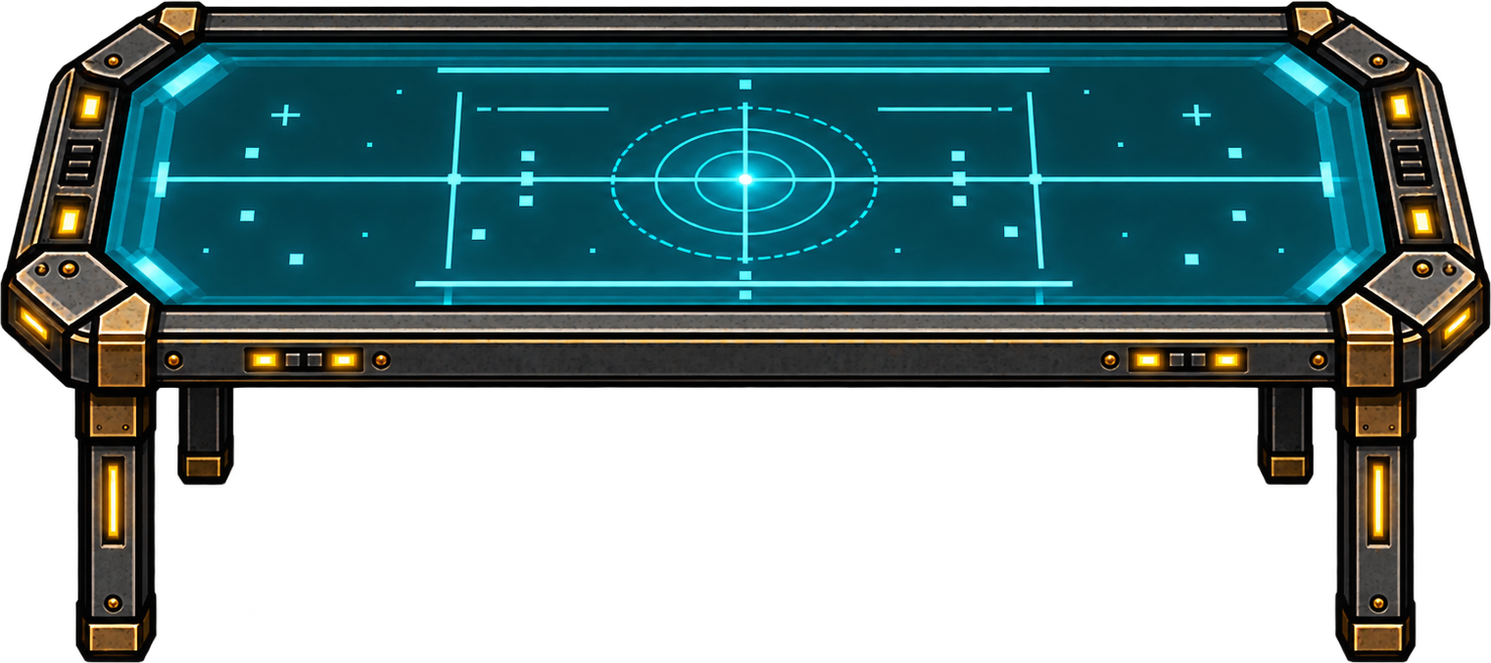
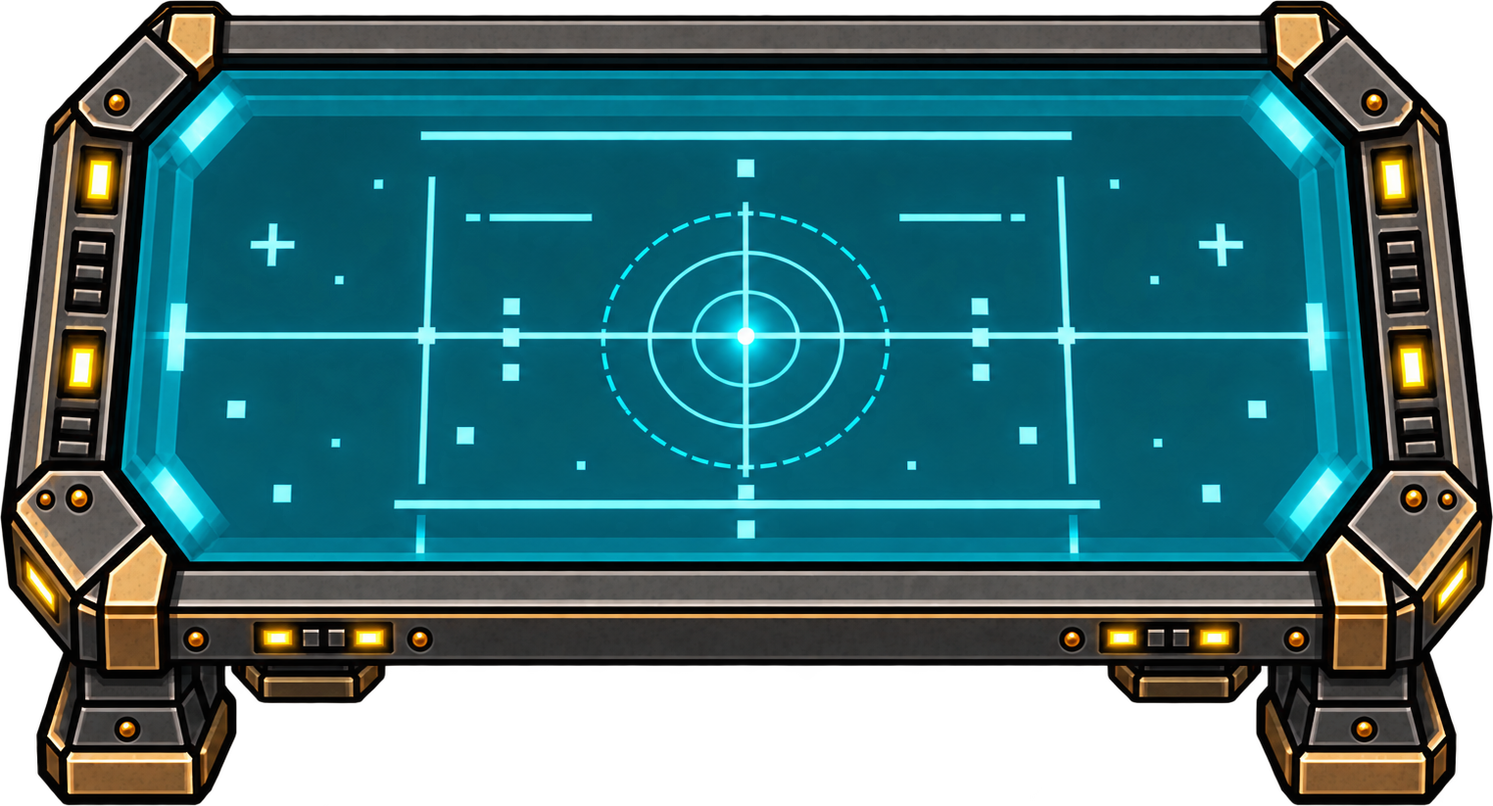
Lower tactical table on broad feet and correct its top-plane projection

diff --git a/frontend/app/projection-prop-effects.js b/frontend/app/projection-prop-effects.js
@@ -20,7 +20,7 @@ const ProjectionPropEffects = (() => {
     // Their painted graticules are static glass artwork. Do not cover them with
     // opaque rectangles when idle; animated sweeps still require occupancy.
     bridge_consolebank:[screen(rect(.045,.16,.22,.37),'occupied',C.cyan,0),screen(rect(.365,.16,.255,.37),'occupied',C.cyan,0),screen(rect(.725,.16,.20,.37),'occupied',C.cyan,0)],
-    bridge_tacticaltable:[screen([[.155,.09],[.84,.09],[.91,.17],[.93,.36],[.865,.45],[.13,.45],[.075,.37],[.09,.18]],'occupied',C.cyan,0)],
+    bridge_tacticaltable:[screen([[.158,.13],[.844,.13],[.896,.20],[.912,.565],[.863,.674],[.13,.674],[.092,.568],[.106,.218]],'occupied',C.cyan,0)],
     bigscreen:[screen(rect(.06,.20,.86,.32))],
     holotable:[screen([[.09,.20],[.89,.20],[.89,.61],[.09,.61]])],
     screens:[screen(rect(.29,.075,.42,.20)),screen(rect(.07,.49,.34,.19)),screen(rect(.60,.49,.33,.19))],
@@ -105,7 +105,7 @@ const ProjectionPropEffects = (() => {
     industrial_servicecab:[lamp(rect(.70,.483,.045,.027),'work',C.amber)]
   };
   // BINDINGS is generated from the reviewed manifest by the offline proof tool.
-  const BINDINGS = /* projection-bindings */ {"industrial_locker":{"s":{"image":"industrial_locker.png","width":292,"height":300}},"industrial_drawerbank":{"s":{"image":"industrial_drawerbank.png","width":521,"height":205}},"industrial_supplycart":{"s":{"image":"industrial_supplycart.png","width":319,"height":281}},"industrial_toolcaddy":{"s":{"image":"industrial_toolcaddy.png","width":248,"height":208}},"industrial_planter":{"s":{"image":"industrial_planter.png","width":401,"height":278}},"industrial_partition":{"s":{"image":"industrial_partition.png","width":529,"height":286},"w":{"image":"industrial_partition-w.png","width":177,"height":575},"e":{"image":"industrial_partition-e.png","width":135,"height":607}},"industrial_bench":{"s":{"image":"industrial_bench.png","width":1328,"height":441}},"industrial_roundtable":{"s":{"image":"industrial_roundtable.png","width":419,"height":295}},"industrial_servicecab":{"s":{"image":"industrial_servicecab.png","width":166,"height":444}},"industrial_wallpanel":{"s":{"image":"industrial_wallpanel.png","width":294,"height":252}},"industrial_floorvent":{"s":{"image":"industrial_floorvent.png","width":423,"height":173}},"industrial_cabletray":{"s":{"image":"industrial_cabletray.png","width":1133,"height":178}},"desk":{"s":{"image":"desk.png","width":1207,"height":804},"w":{"image":"desk-w.png","width":128,"height":190},"n":{"image":"desk-n.png","width":597,"height":469},"e":{"image":"desk-e.png","width":138,"height":190}},"desk2":{"s":{"image":"desk2.png","width":687,"height":423},"w":{"image":"desk2-w.png","width":146,"height":186},"n":{"image":"desk2-n.png","width":679,"height":411},"e":{"image":"desk2-e.png","width":218,"height":529}},"console":{"s":{"image":"console.png","width":1009,"height":833}},"consoleL":{"s":{"image":"consoleL.png","width":1308,"height":719}},"pixelrig":{"s":{"image":"pixelrig.png","width":403,"height":338}},"bench":{"s":{"image":"bench.png","width":1534,"height":673}},"workbench":{"s":{"image":"workbench.png","width":1202,"height":651}},"intake":{"s":{"image":"intake.png","width":1214,"height":976}},"bay":{"s":{"image":"bay.png","width":418,"height":396}},"filter":{"s":{"image":"filter.png","width":294,"height":331}},"merger":{"s":{"image":"merger.png","width":363,"height":213}},"splitter":{"s":{"image":"splitter.png","width":323,"height":212}},"joiner":{"s":{"image":"joiner.png","width":354,"height":225}},"loop":{"s":{"image":"loop.png","width":288,"height":345}},"outbox":{"s":{"image":"outbox.png","width":1206,"height":1014}},"connector_portal":{"s":{"image":"connector_portal.png","width":924,"height":1626}},"comms_dish":{"s":{"image":"comms_dish.png","width":661,"height":739}},"comms_uplink":{"s":{"image":"comms_uplink.png","width":244,"height":496}},"comms_beacon":{"s":{"image":"comms_beacon.png","width":272,"height":344}},"war_intelcab":{"s":{"image":"war_intelcab.png","width":825,"height":1491}},"safe":{"s":{"image":"safe.png","width":203,"height":361}},"vault":{"s":{"image":"vault.png","width":459,"height":259}},"rack":{"s":{"image":"rack.png","width":342,"height":306}},"shelf":{"s":{"image":"shelf.png","width":529,"height":252}},"core":{"s":{"image":"core.png","width":209,"height":448}},"gigs_servercart":{"s":{"image":"gigs_servercart.png","width":289,"height":320}},"bridge_relaystack":{"s":{"image":"bridge_relaystack.png","width":293,"height":599}},"studio":{"s":{"image":"studio.png","width":350,"height":374}},"airlock":{"s":{"image":"airlock.png","width":218,"height":215}},"missionboard":{"s":{"image":"missionboard.png","width":393,"height":229}},"trophycase":{"s":{"image":"trophycase.png","width":307,"height":345}},"bridge_consolebank":{"s":{"image":"bridge_consolebank.png","width":702,"height":218}},"bridge_tacticaltable":{"s":{"image":"bridge_tacticaltable.png","width":1522,"height":677}},"bridge_equipmentbay":{"s":{"image":"bridge_equipmentbay.png","width":1597,"height":559}},"bridge_deckperimeter":{"s":{"image":"bridge_deckperimeter.png","width":1558,"height":980}},"bigscreen":{"s":{"image":"bigscreen.png","width":638,"height":167}},"holotable":{"s":{"image":"holotable.png","width":1488,"height":810}},"screens":{"s":{"image":"screens.png","width":343,"height":306}},"tank":{"s":{"image":"tank.png","width":368,"height":326}},"whiteboard":{"s":{"image":"whiteboard.png","width":555,"height":247}},"ticker":{"s":{"image":"ticker.png","width":477,"height":214}},"chartwall":{"s":{"image":"chartwall.png","width":477,"height":232}},"wartable":{"s":{"image":"wartable.png","width":1981,"height":703}},"calwall":{"s":{"image":"calwall.png","width":737,"height":205}},"bridge_tacscreen":{"s":{"image":"bridge_tacscreen.png","width":340,"height":269}},"bridge_dispatch_pylon":{"s":{"image":"bridge_dispatch_pylon.png","width":302,"height":573}},"bridge_orderqueue":{"s":{"image":"bridge_orderqueue.png","width":405,"height":335}},"war_pivotpanel":{"s":{"image":"war_pivotpanel.png","width":509,"height":351}},"war_threatcore":{"s":{"image":"war_threatcore.png","width":200,"height":388}},"fabricator":{"s":{"image":"fabricator.png","width":420,"height":274}},"vat":{"s":{"image":"vat.png","width":382,"height":278}},"easel":{"s":{"image":"easel.png","width":649,"height":748}},"tube":{"s":{"image":"tube.png","width":340,"height":200}},"research_corelens":{"s":{"image":"research_corelens.png","width":272,"height":363}},"research_trendpillar":{"s":{"image":"research_trendpillar.png","width":272,"height":362}},"research_samplecart":{"s":{"image":"research_samplecart.png","width":650,"height":459}},"research_papers":{"s":{"image":"research_papers.png","width":433,"height":241}},"etsy_threadrack":{"s":{"image":"etsy_threadrack.png","width":406,"height":314}},"etsy_dyevat":{"s":{"image":"etsy_dyevat.png","width":368,"height":308}},"etsy_kiln":{"s":{"image":"etsy_kiln.png","width":324,"height":374}},"etsy_packbot":{"s":{"image":"etsy_packbot.png","width":270,"height":358}},"rackV":{"s":{"image":"rackV.png","width":182,"height":453}},"crate":{"s":{"image":"crate.png","width":631,"height":463}},"boxes":{"s":{"image":"boxes.png","width":314,"height":193}},"goldcrate":{"s":{"image":"goldcrate.png","width":312,"height":225}},"gigs_partsbin":{"s":{"image":"gigs_partsbin.png","width":312,"height":211}},"treasury_coinsorter":{"s":{"image":"treasury_coinsorter.png","width":578,"height":317}},"treasury_token_furnace":{"s":{"image":"treasury_token_furnace.png","width":197,"height":437}},"commswall":{"s":{"image":"commswall.png","width":646,"height":199}},"comms_inbox":{"s":{"image":"comms_inbox.png","width":457,"height":297}},"gigs_thumbwall":{"s":{"image":"gigs_thumbwall.png","width":372,"height":222}},"gigs_amp":{"s":{"image":"gigs_amp.png","width":225,"height":281}},"pub_publishpress":{"s":{"image":"pub_publishpress.png","width":435,"height":401}},"pub_outboundchute":{"s":{"image":"pub_outboundchute.png","width":428,"height":650}},"pub_mailpod":{"s":{"image":"pub_mailpod.png","width":727,"height":513}},"arc_indexwall":{"s":{"image":"arc_indexwall.png","width":532,"height":234}},"arc_microfiche":{"s":{"image":"arc_microfiche.png","width":338,"height":277}},"djbooth":{"s":{"image":"djbooth.png","width":849,"height":507}},"speaker":{"s":{"image":"speaker.png","width":231,"height":352}},"bar":{"s":{"image":"bar.png","width":974,"height":499}},"tv":{"s":{"image":"tv.png","width":287,"height":216}},"couch":{"s":{"image":"couch.png","width":1859,"height":682}},"arcade":{"s":{"image":"arcade.png","width":143,"height":326}},"arcade2":{"s":{"image":"arcade2.png","width":143,"height":326}},"jukebox":{"s":{"image":"jukebox.png","width":287,"height":383}},"bunk":{"s":{"image":"bunk.png","width":1139,"height":1188}},"quarters_pooltable":{"s":{"image":"quarters_pooltable.png","width":348,"height":239}},"quarters_vending":{"s":{"image":"quarters_vending.png","width":289,"height":465}},"quarters_lockerbank":{"s":{"image":"quarters_lockerbank.png","width":558,"height":495}},"quarters_minifridge":{"s":{"image":"quarters_minifridge.png","width":198,"height":328}},"coffee":{"s":{"image":"coffee.png","width":214,"height":313}},"plant":{"s":{"image":"plant.png","width":640,"height":1412}},"rug":{"s":{"image":"rug.png","width":350,"height":228}},"rug_small":{"s":{"image":"rug_small.png","width":248,"height":228}},"rug_large":{"s":{"image":"rug_large.png","width":556,"height":535}},"treasury_pnl_holo":{"s":{"image":"treasury_pnl_holo.png","width":322,"height":174}},"arc_floorlight":{"s":{"image":"arc_floorlight.png","width":175,"height":175}},"arc_ladder":{"s":{"image":"arc_ladder.png","width":331,"height":506}},"stool":{"s":{"image":"stool.png","width":400,"height":454}},"chair":{"s":{"image":"chair.png","width":457,"height":683},"w":{"image":"chair-w.png","width":107,"height":172},"n":{"image":"chair-n.png","width":111,"height":167},"e":{"image":"chair-e.png","width":108,"height":171}},"sidetable":{"s":{"image":"sidetable.png","width":236,"height":311}},"lowtable":{"s":{"image":"lowtable.png","width":521,"height":214},"e":{"image":"lowtable-e.png","width":163,"height":304}},"glasstable":{"s":{"image":"glasstable.png","width":548,"height":216},"e":{"image":"glasstable-e.png","width":449,"height":1325}},"dinertable":{"s":{"image":"dinertable.png","width":1237,"height":737},"e":{"image":"dinertable-e.png","width":447,"height":679}},"guitar":{"s":{"image":"guitar.png","width":218,"height":444}},"booth":{"s":{"image":"booth.png","width":333,"height":295},"w":{"image":"booth-w.png","width":289,"height":646},"e":{"image":"booth-e.png","width":696,"height":1789}},"dinerchair":{"s":{"image":"dinerchair.png","width":167,"height":311},"w":{"image":"dinerchair-w.png","width":226,"height":359},"n":{"image":"dinerchair-n.png","width":218,"height":300},"e":{"image":"dinerchair-e.png","width":227,"height":359}},"podchair":{"s":{"image":"podchair.png","width":237,"height":323},"w":{"image":"podchair-w.png","width":262,"height":384},"n":{"image":"podchair-n.png","width":356,"height":650},"e":{"image":"podchair-e.png","width":262,"height":386}},"loungetable":{"s":{"image":"loungetable.png","width":426,"height":212},"e":{"image":"loungetable-e.png","width":190,"height":264}},"longtable":{"s":{"image":"longtable.png","width":1738,"height":658},"e":{"image":"longtable-e.png","width":179,"height":380}},"lavalamp":{"s":{"image":"lavalamp.png","width":282,"height":658}},"crt_pile":{"s":{"image":"crt_pile.png","width":205,"height":309}},"cablerun":{"s":{"image":"cablerun.png","width":1135,"height":250}},"hazardpad":{"s":{"image":"hazardpad.png","width":413,"height":177}},"tallplant":{"s":{"image":"tallplant.png","width":227,"height":435}},"terrarium":{"s":{"image":"terrarium.png","width":227,"height":367}},"holopet":{"s":{"image":"holopet.png","width":436,"height":1295}},"plasmaglobe":{"s":{"image":"plasmaglobe.png","width":312,"height":656}},"gachapon":{"s":{"image":"gachapon.png","width":200,"height":316}},"monstera":{"s":{"image":"monstera.png","width":345,"height":377}},"mug":{"s":{"image":"mug.png","width":571,"height":520}},"bookstack":{"s":{"image":"bookstack.png","width":298,"height":260}},"desklamp":{"s":{"image":"desklamp.png","width":363,"height":252}},"radio":{"s":{"image":"radio.png","width":668,"height":547}},"toolbox":{"s":{"image":"toolbox.png","width":1275,"height":669}},"figurine":{"s":{"image":"figurine.png","width":231,"height":277}},"deskterminal":{"s":{"image":"deskterminal.png","width":247,"height":243}},"modelship":{"s":{"image":"modelship.png","width":447,"height":225}},"steamvent":{"s":{"image":"steamvent.png","width":845,"height":473}},"fishtank":{"s":{"image":"fishtank.png","width":1065,"height":809}},"pokertable":{"s":{"image":"pokertable.png","width":457,"height":283}},"bookshelf":{"s":{"image":"bookshelf.png","width":1125,"height":944}},"beanbag":{"s":{"image":"beanbag.png","width":322,"height":273}},"pinball":{"s":{"image":"pinball.png","width":336,"height":567}},"cryopod":{"s":{"image":"cryopod.png","width":194,"height":456}},"incubator":{"s":{"image":"incubator.png","width":193,"height":477}},"telescope":{"s":{"image":"telescope.png","width":326,"height":372}},"telescope_r":{"s":{"image":"telescope_r.png","width":312,"height":374}},"camerarig":{"s":{"image":"camerarig.png","width":199,"height":339}},"camerarig_r":{"s":{"image":"camerarig_r.png","width":202,"height":339}},"weaponrack":{"s":{"image":"weaponrack.png","width":553,"height":384}},"weaponrack_r":{"s":{"image":"weaponrack_r.png","width":1126,"height":722}},"punchbag":{"s":{"image":"punchbag.png","width":172,"height":416}},"punchbag_r":{"s":{"image":"punchbag_r.png","width":171,"height":417}},"benchpress":{"s":{"image":"benchpress.png","width":587,"height":344}},"benchpress_r":{"s":{"image":"benchpress_r.png","width":1572,"height":865}},"recliner":{"s":{"image":"recliner.png","width":232,"height":258}},"recliner_r":{"s":{"image":"recliner_r.png","width":232,"height":259}}};
+  const BINDINGS = /* projection-bindings */ {"industrial_locker":{"s":{"image":"industrial_locker.png","width":292,"height":300}},"industrial_drawerbank":{"s":{"image":"industrial_drawerbank.png","width":521,"height":205}},"industrial_supplycart":{"s":{"image":"industrial_supplycart.png","width":319,"height":281}},"industrial_toolcaddy":{"s":{"image":"industrial_toolcaddy.png","width":248,"height":208}},"industrial_planter":{"s":{"image":"industrial_planter.png","width":401,"height":278}},"industrial_partition":{"s":{"image":"industrial_partition.png","width":529,"height":286},"w":{"image":"industrial_partition-w.png","width":177,"height":575},"e":{"image":"industrial_partition-e.png","width":135,"height":607}},"industrial_bench":{"s":{"image":"industrial_bench.png","width":1328,"height":441}},"industrial_roundtable":{"s":{"image":"industrial_roundtable.png","width":419,"height":295}},"industrial_servicecab":{"s":{"image":"industrial_servicecab.png","width":166,"height":444}},"industrial_wallpanel":{"s":{"image":"industrial_wallpanel.png","width":294,"height":252}},"industrial_floorvent":{"s":{"image":"industrial_floorvent.png","width":423,"height":173}},"industrial_cabletray":{"s":{"image":"industrial_cabletray.png","width":1133,"height":178}},"desk":{"s":{"image":"desk.png","width":1207,"height":804},"w":{"image":"desk-w.png","width":128,"height":190},"n":{"image":"desk-n.png","width":597,"height":469},"e":{"image":"desk-e.png","width":138,"height":190}},"desk2":{"s":{"image":"desk2.png","width":687,"height":423},"w":{"image":"desk2-w.png","width":146,"height":186},"n":{"image":"desk2-n.png","width":679,"height":411},"e":{"image":"desk2-e.png","width":218,"height":529}},"console":{"s":{"image":"console.png","width":1009,"height":833}},"consoleL":{"s":{"image":"consoleL.png","width":1308,"height":719}},"pixelrig":{"s":{"image":"pixelrig.png","width":403,"height":338}},"bench":{"s":{"image":"bench.png","width":1534,"height":673}},"workbench":{"s":{"image":"workbench.png","width":1202,"height":651}},"intake":{"s":{"image":"intake.png","width":1214,"height":976}},"bay":{"s":{"image":"bay.png","width":418,"height":396}},"filter":{"s":{"image":"filter.png","width":294,"height":331}},"merger":{"s":{"image":"merger.png","width":363,"height":213}},"splitter":{"s":{"image":"splitter.png","width":323,"height":212}},"joiner":{"s":{"image":"joiner.png","width":354,"height":225}},"loop":{"s":{"image":"loop.png","width":288,"height":345}},"outbox":{"s":{"image":"outbox.png","width":1206,"height":1014}},"connector_portal":{"s":{"image":"connector_portal.png","width":924,"height":1626}},"comms_dish":{"s":{"image":"comms_dish.png","width":661,"height":739}},"comms_uplink":{"s":{"image":"comms_uplink.png","width":244,"height":496}},"comms_beacon":{"s":{"image":"comms_beacon.png","width":272,"height":344}},"war_intelcab":{"s":{"image":"war_intelcab.png","width":825,"height":1491}},"safe":{"s":{"image":"safe.png","width":203,"height":361}},"vault":{"s":{"image":"vault.png","width":459,"height":259}},"rack":{"s":{"image":"rack.png","width":342,"height":306}},"shelf":{"s":{"image":"shelf.png","width":529,"height":252}},"core":{"s":{"image":"core.png","width":209,"height":448}},"gigs_servercart":{"s":{"image":"gigs_servercart.png","width":289,"height":320}},"bridge_relaystack":{"s":{"image":"bridge_relaystack.png","width":293,"height":599}},"studio":{"s":{"image":"studio.png","width":350,"height":374}},"airlock":{"s":{"image":"airlock.png","width":218,"height":215}},"missionboard":{"s":{"image":"missionboard.png","width":393,"height":229}},"trophycase":{"s":{"image":"trophycase.png","width":307,"height":345}},"bridge_consolebank":{"s":{"image":"bridge_consolebank.png","width":702,"height":218}},"bridge_tacticaltable":{"s":{"image":"bridge_tacticaltable.png","width":1524,"height":823}},"bridge_equipmentbay":{"s":{"image":"bridge_equipmentbay.png","width":1597,"height":559}},"bridge_deckperimeter":{"s":{"image":"bridge_deckperimeter.png","width":1558,"height":980}},"bigscreen":{"s":{"image":"bigscreen.png","width":638,"height":167}},"holotable":{"s":{"image":"holotable.png","width":1488,"height":810}},"screens":{"s":{"image":"screens.png","width":343,"height":306}},"tank":{"s":{"image":"tank.png","width":368,"height":326}},"whiteboard":{"s":{"image":"whiteboard.png","width":555,"height":247}},"ticker":{"s":{"image":"ticker.png","width":477,"height":214}},"chartwall":{"s":{"image":"chartwall.png","width":477,"height":232}},"wartable":{"s":{"image":"wartable.png","width":1981,"height":703}},"calwall":{"s":{"image":"calwall.png","width":737,"height":205}},"bridge_tacscreen":{"s":{"image":"bridge_tacscreen.png","width":340,"height":269}},"bridge_dispatch_pylon":{"s":{"image":"bridge_dispatch_pylon.png","width":302,"height":573}},"bridge_orderqueue":{"s":{"image":"bridge_orderqueue.png","width":405,"height":335}},"war_pivotpanel":{"s":{"image":"war_pivotpanel.png","width":509,"height":351}},"war_threatcore":{"s":{"image":"war_threatcore.png","width":200,"height":388}},"fabricator":{"s":{"image":"fabricator.png","width":420,"height":274}},"vat":{"s":{"image":"vat.png","width":382,"height":278}},"easel":{"s":{"image":"easel.png","width":649,"height":748}},"tube":{"s":{"image":"tube.png","width":340,"height":200}},"research_corelens":{"s":{"image":"research_corelens.png","width":272,"height":363}},"research_trendpillar":{"s":{"image":"research_trendpillar.png","width":272,"height":362}},"research_samplecart":{"s":{"image":"research_samplecart.png","width":650,"height":459}},"research_papers":{"s":{"image":"research_papers.png","width":433,"height":241}},"etsy_threadrack":{"s":{"image":"etsy_threadrack.png","width":406,"height":314}},"etsy_dyevat":{"s":{"image":"etsy_dyevat.png","width":368,"height":308}},"etsy_kiln":{"s":{"image":"etsy_kiln.png","width":324,"height":374}},"etsy_packbot":{"s":{"image":"etsy_packbot.png","width":270,"height":358}},"rackV":{"s":{"image":"rackV.png","width":182,"height":453}},"crate":{"s":{"image":"crate.png","width":631,"height":463}},"boxes":{"s":{"image":"boxes.png","width":314,"height":193}},"goldcrate":{"s":{"image":"goldcrate.png","width":312,"height":225}},"gigs_partsbin":{"s":{"image":"gigs_partsbin.png","width":312,"height":211}},"treasury_coinsorter":{"s":{"image":"treasury_coinsorter.png","width":578,"height":317}},"treasury_token_furnace":{"s":{"image":"treasury_token_furnace.png","width":197,"height":437}},"commswall":{"s":{"image":"commswall.png","width":646,"height":199}},"comms_inbox":{"s":{"image":"comms_inbox.png","width":457,"height":297}},"gigs_thumbwall":{"s":{"image":"gigs_thumbwall.png","width":372,"height":222}},"gigs_amp":{"s":{"image":"gigs_amp.png","width":225,"height":281}},"pub_publishpress":{"s":{"image":"pub_publishpress.png","width":435,"height":401}},"pub_outboundchute":{"s":{"image":"pub_outboundchute.png","width":428,"height":650}},"pub_mailpod":{"s":{"image":"pub_mailpod.png","width":727,"height":513}},"arc_indexwall":{"s":{"image":"arc_indexwall.png","width":532,"height":234}},"arc_microfiche":{"s":{"image":"arc_microfiche.png","width":338,"height":277}},"djbooth":{"s":{"image":"djbooth.png","width":849,"height":507}},"speaker":{"s":{"image":"speaker.png","width":231,"height":352}},"bar":{"s":{"image":"bar.png","width":974,"height":499}},"tv":{"s":{"image":"tv.png","width":287,"height":216}},"couch":{"s":{"image":"couch.png","width":1859,"height":682}},"arcade":{"s":{"image":"arcade.png","width":143,"height":326}},"arcade2":{"s":{"image":"arcade2.png","width":143,"height":326}},"jukebox":{"s":{"image":"jukebox.png","width":287,"height":383}},"bunk":{"s":{"image":"bunk.png","width":1139,"height":1188}},"quarters_pooltable":{"s":{"image":"quarters_pooltable.png","width":348,"height":239}},"quarters_vending":{"s":{"image":"quarters_vending.png","width":289,"height":465}},"quarters_lockerbank":{"s":{"image":"quarters_lockerbank.png","width":558,"height":495}},"quarters_minifridge":{"s":{"image":"quarters_minifridge.png","width":198,"height":328}},"coffee":{"s":{"image":"coffee.png","width":214,"height":313}},"plant":{"s":{"image":"plant.png","width":640,"height":1412}},"rug":{"s":{"image":"rug.png","width":350,"height":228}},"rug_small":{"s":{"image":"rug_small.png","width":248,"height":228}},"rug_large":{"s":{"image":"rug_large.png","width":556,"height":535}},"treasury_pnl_holo":{"s":{"image":"treasury_pnl_holo.png","width":322,"height":174}},"arc_floorlight":{"s":{"image":"arc_floorlight.png","width":175,"height":175}},"arc_ladder":{"s":{"image":"arc_ladder.png","width":331,"height":506}},"stool":{"s":{"image":"stool.png","width":400,"height":454}},"chair":{"s":{"image":"chair.png","width":457,"height":683},"w":{"image":"chair-w.png","width":107,"height":172},"n":{"image":"chair-n.png","width":111,"height":167},"e":{"image":"chair-e.png","width":108,"height":171}},"sidetable":{"s":{"image":"sidetable.png","width":236,"height":311}},"lowtable":{"s":{"image":"lowtable.png","width":521,"height":214},"e":{"image":"lowtable-e.png","width":163,"height":304}},"glasstable":{"s":{"image":"glasstable.png","width":548,"height":216},"e":{"image":"glasstable-e.png","width":449,"height":1325}},"dinertable":{"s":{"image":"dinertable.png","width":1237,"height":737},"e":{"image":"dinertable-e.png","width":447,"height":679}},"guitar":{"s":{"image":"guitar.png","width":218,"height":444}},"booth":{"s":{"image":"booth.png","width":333,"height":295},"w":{"image":"booth-w.png","width":289,"height":646},"e":{"image":"booth-e.png","width":696,"height":1789}},"dinerchair":{"s":{"image":"dinerchair.png","width":167,"height":311},"w":{"image":"dinerchair-w.png","width":226,"height":359},"n":{"image":"dinerchair-n.png","width":218,"height":300},"e":{"image":"dinerchair-e.png","width":227,"height":359}},"podchair":{"s":{"image":"podchair.png","width":237,"height":323},"w":{"image":"podchair-w.png","width":262,"height":384},"n":{"image":"podchair-n.png","width":356,"height":650},"e":{"image":"podchair-e.png","width":262,"height":386}},"loungetable":{"s":{"image":"loungetable.png","width":426,"height":212},"e":{"image":"loungetable-e.png","width":190,"height":264}},"longtable":{"s":{"image":"longtable.png","width":1738,"height":658},"e":{"image":"longtable-e.png","width":179,"height":380}},"lavalamp":{"s":{"image":"lavalamp.png","width":282,"height":658}},"crt_pile":{"s":{"image":"crt_pile.png","width":205,"height":309}},"cablerun":{"s":{"image":"cablerun.png","width":1135,"height":250}},"hazardpad":{"s":{"image":"hazardpad.png","width":413,"height":177}},"tallplant":{"s":{"image":"tallplant.png","width":227,"height":435}},"terrarium":{"s":{"image":"terrarium.png","width":227,"height":367}},"holopet":{"s":{"image":"holopet.png","width":436,"height":1295}},"plasmaglobe":{"s":{"image":"plasmaglobe.png","width":312,"height":656}},"gachapon":{"s":{"image":"gachapon.png","width":200,"height":316}},"monstera":{"s":{"image":"monstera.png","width":345,"height":377}},"mug":{"s":{"image":"mug.png","width":571,"height":520}},"bookstack":{"s":{"image":"bookstack.png","width":298,"height":260}},"desklamp":{"s":{"image":"desklamp.png","width":363,"height":252}},"radio":{"s":{"image":"radio.png","width":668,"height":547}},"toolbox":{"s":{"image":"toolbox.png","width":1275,"height":669}},"figurine":{"s":{"image":"figurine.png","width":231,"height":277}},"deskterminal":{"s":{"image":"deskterminal.png","width":247,"height":243}},"modelship":{"s":{"image":"modelship.png","width":447,"height":225}},"steamvent":{"s":{"image":"steamvent.png","width":845,"height":473}},"fishtank":{"s":{"image":"fishtank.png","width":1065,"height":809}},"pokertable":{"s":{"image":"pokertable.png","width":457,"height":283}},"bookshelf":{"s":{"image":"bookshelf.png","width":1125,"height":944}},"beanbag":{"s":{"image":"beanbag.png","width":322,"height":273}},"pinball":{"s":{"image":"pinball.png","width":336,"height":567}},"cryopod":{"s":{"image":"cryopod.png","width":194,"height":456}},"incubator":{"s":{"image":"incubator.png","width":193,"height":477}},"telescope":{"s":{"image":"telescope.png","width":326,"height":372}},"telescope_r":{"s":{"image":"telescope_r.png","width":312,"height":374}},"camerarig":{"s":{"image":"camerarig.png","width":199,"height":339}},"camerarig_r":{"s":{"image":"camerarig_r.png","width":202,"height":339}},"weaponrack":{"s":{"image":"weaponrack.png","width":553,"height":384}},"weaponrack_r":{"s":{"image":"weaponrack_r.png","width":1126,"height":722}},"punchbag":{"s":{"image":"punchbag.png","width":172,"height":416}},"punchbag_r":{"s":{"image":"punchbag_r.png","width":171,"height":417}},"benchpress":{"s":{"image":"benchpress.png","width":587,"height":344}},"benchpress_r":{"s":{"image":"benchpress_r.png","width":1572,"height":865}},"recliner":{"s":{"image":"recliner.png","width":232,"height":258}},"recliner_r":{"s":{"image":"recliner_r.png","width":232,"height":259}}};
   const QUIET = /* projection-quiet */ {"desk":"Accepted workstation screen/occupancy renderer remains authoritative, including compact native fallback and separately authored facings. No added effects.","desk2":"Accepted workstation screen/occupancy renderer remains authoritative, including compact native fallback and separately authored facings. No added effects.","industrial_locker":"Storage or passive hardware; no evidenced moving mechanism or live display region on this source.","industrial_drawerbank":"Storage or passive hardware; no evidenced moving mechanism or live display region on this source.","industrial_supplycart":"Storage or passive hardware; no evidenced moving mechanism or live display region on this source.","industrial_toolcaddy":"Storage or passive hardware; no evidenced moving mechanism or live display region on this source.","industrial_wallpanel":"Storage or passive hardware; no evidenced moving mechanism or live display region on this source.","safe":"Storage or passive hardware; no evidenced moving mechanism or live display region on this source.","vault":"Storage or passive hardware; no evidenced moving mechanism or live display region on this source.","shelf":"Storage or passive hardware; no evidenced moving mechanism or live display region on this source.","quarters_lockerbank":"Storage or passive hardware; no evidenced moving mechanism or live display region on this source.","arc_indexwall":"Storage or passive hardware; no evidenced moving mechanism or live display region on this source.","industrial_partition":"Passive structural, floor or support object. Painted surface remains still; no fabricated process.","industrial_bench":"Passive structural, floor or support object. Painted surface remains still; no fabricated process.","industrial_roundtable":"Passive structural, floor or support object. Painted surface remains still; no fabricated process.","industrial_floorvent":"Passive structural, floor or support object. Painted surface remains still; no fabricated process.","industrial_cabletray":"Passive structural, floor or support object. Painted surface remains still; no fabricated process.","bridge_deckperimeter":"Passive structural, floor or support object. Painted surface remains still; no fabricated process.","cablerun":"Passive structural, floor or support object. Painted surface remains still; no fabricated process.","hazardpad":"Passive structural, floor or support object. Painted surface remains still; no fabricated process.","rug":"Passive structural, floor or support object. Painted surface remains still; no fabricated process.","rug_small":"Passive structural, floor or support object. Painted surface remains still; no fabricated process.","rug_large":"Passive structural, floor or support object. Painted surface remains still; no fabricated process.","arc_ladder":"Passive structural, floor or support object. Painted surface remains still; no fabricated process.","industrial_planter":"Quiet painted foliage/colony. Old ambient sway or spores were decorative, not a live process; omitted intentionally.","plant":"Quiet painted foliage/colony. Old ambient sway or spores were decorative, not a live process; omitted intentionally.","tallplant":"Quiet painted foliage/colony. Old ambient sway or spores were decorative, not a live process; omitted intentionally.","terrarium":"Quiet painted foliage/colony. Old ambient sway or spores were decorative, not a live process; omitted intentionally.","monstera":"Quiet painted foliage/colony. Old ambient sway or spores were decorative, not a live process; omitted intentionally.","whiteboard":"Static authored contents or materials. No inferred activity, inventory, light or material animation.","calwall":"Static authored contents or materials. No inferred activity, inventory, light or material animation.","easel":"Static authored contents or materials. No inferred activity, inventory, light or material animation.","research_papers":"Static authored contents or materials. No inferred activity, inventory, light or material animation.","crate":"Static authored contents or materials. No inferred activity, inventory, light or material animation.","boxes":"Static authored contents or materials. No inferred activity, inventory, light or material animation.","goldcrate":"Static authored contents or materials. No inferred activity, inventory, light or material animation.","gigs_partsbin":"Static authored contents or materials. No inferred activity, inventory, light or material animation.","guitar":"Static authored contents or materials. No inferred activity, inventory, light or material animation.","mug":"Static authored contents or materials. No inferred activity, inventory, light or material animation.","bookstack":"Static authored contents or materials. No inferred activity, inventory, light or material animation.","toolbox":"Static authored contents or materials. No inferred activity, inventory, light or material animation.","figurine":"Static authored contents or materials. No inferred activity, inventory, light or material animation.","modelship":"Static authored contents or materials. No inferred activity, inventory, light or material animation.","bookshelf":"Static authored contents or materials. No inferred activity, inventory, light or material animation.","bar":"Serving counter has no per-instance dispensing/order state in renderer input; no invented pour or service cycle.","couch":"Seating/table body remains untouched; occupancy, sleep and mounting stay with existing body/foreground/surface owners.","bunk":"Seating/table body remains untouched; occupancy, sleep and mounting stay with existing body/foreground/surface owners.","stool":"Seating/table body remains untouched; occupancy, sleep and mounting stay with existing body/foreground/surface owners.","chair":"Seating/table body remains untouched; occupancy, sleep and mounting stay with existing body/foreground/surface owners.","sidetable":"Seating/table body remains untouched; occupancy, sleep and mounting stay with existing body/foreground/surface owners.","lowtable":"Seating/table body remains untouched; occupancy, sleep and mounting stay with existing body/foreground/surface owners.","glasstable":"Seating/table body remains untouched; occupancy, sleep and mounting stay with existing body/foreground/surface owners.","dinertable":"Seating/table body remains untouched; occupancy, sleep and mounting stay with existing body/foreground/surface owners.","booth":"Seating/table body remains untouched; occupancy, sleep and mounting stay with existing body/foreground/surface owners.","dinerchair":"Seating/table body remains untouched; occupancy, sleep and mounting stay with existing body/foreground/surface owners.","podchair":"Seating/table body remains untouched; occupancy, sleep and mounting stay with existing body/foreground/surface owners.","loungetable":"Seating/table body remains untouched; occupancy, sleep and mounting stay with existing body/foreground/surface owners.","longtable":"Seating/table body remains untouched; occupancy, sleep and mounting stay with existing body/foreground/surface owners.","beanbag":"Seating/table body remains untouched; occupancy, sleep and mounting stay with existing body/foreground/surface owners.","recliner":"Seating/table body remains untouched; occupancy, sleep and mounting stay with existing body/foreground/surface owners.","recliner_r":"Seating/table body remains untouched; occupancy, sleep and mounting stay with existing body/foreground/surface owners.","quarters_pooltable":"No per-instance game/ball state is available. Static approved playfield avoids invented shots, cards or wins.","pokertable":"No per-instance game/ball state is available. Static approved playfield avoids invented shots, cards or wins.","gachapon":"No purchase/turn/dispense state is provided. Painted capsules remain static; no invented vend.","telescope":"Passive instrument/equipment pose. No backend aim, firing, strike or repetition state is available.","telescope_r":"Passive instrument/equipment pose. No backend aim, firing, strike or repetition state is available.","weaponrack":"Passive instrument/equipment pose. No backend aim, firing, strike or repetition state is available.","weaponrack_r":"Passive instrument/equipment pose. No backend aim, firing, strike or repetition state is available.","punchbag":"Passive instrument/equipment pose. No backend aim, firing, strike or repetition state is available.","punchbag_r":"Passive instrument/equipment pose. No backend aim, firing, strike or repetition state is available.","benchpress":"Passive instrument/equipment pose. No backend aim, firing, strike or repetition state is available.","benchpress_r":"Passive instrument/equipment pose. No backend aim, firing, strike or repetition state is available."};
   const finite=n=>typeof n==='number'&&Number.isFinite(n);
   const clamp=n=>finite(n)?Math.max(0,Math.min(1,n)):0;

diff --git a/docs/station-remaster/tactical-table-polish/README.md b/docs/station-remaster/tactical-table-polish/README.md
@@ -1,16 +1,18 @@
-# Raised tactical table and screen light
+# Low tactical table and screen light
 
 Preview: http://127.0.0.1:18795/?propSet=projection&skinSet=study&showcase=kepler
 
-The rejected tactical table was almost an overhead panel with no legs. Its replacement has a foreshortened top, thin fascia, four supports and transparent open knee space. The selected generated PNG is `frontend/assets/industrial/tactical-table-polish/bridge_tacticaltable.png`; the runtime copy is `frontend/assets/industrial/projection-correction/bridge_tacticaltable.png`. The existing 7 x 4 footprint, 84 x 55 maximum world box and floor anchor are retained. The image's aspect ratio is preserved. No procedural prop body was added.
+The current replacement is a low table with a deeper visible top plane, thin fascia and short broad supports. The owner rejected the earlier long-legged, excessively front-facing version. The selected generated PNG is `frontend/assets/industrial/tactical-table-polish/bridge_tacticaltable.png`; the runtime copy is `frontend/assets/industrial/projection-correction/bridge_tacticaltable.png`. The existing 7 x 4 footprint, 84 x 55 maximum world box and floor anchor are retained. The image's aspect ratio is preserved. No procedural prop body was added.
 
-Generated with Codex's built-in image tool using the previous table and approved console bank as references. [Full prompt](prompt.md), [source and crop receipts](integration.json). Original and selected source PNGs are retained alongside the export. Owner acceptance is pending.
+Generated with Codex's built-in image tool. [Initial prompt](prompt.md), [low-support prompt using the approved desk reference](low-table-prompt.md), [camera-angle follow-up](low-table-angle-prompt.md), [source and crop receipts](integration.json). The first short-support draft still had too little visible top depth and was not installed. The selected source is `sources/bridge_tacticaltable-low-v2.png`; previous candidates are retained. Owner acceptance is pending.
+
+Latest revision verification: reloaded Kepler and inspected at command-room framing and close zoom. Short broad feet replace the long slim legs; more tabletop depth is visible; the front edge is lower relative to the floor contact. Screen overlay and light origin were remapped to the new glass polygon. Live diagnostics reported 184 views and zero failures. Projection export, alpha-geometry, effects and screen-light tests were rerun for this revision. Lighting settings were not changed in this revision.
 
 Screen light now uses the same screen regions and state gates as the visible overlays. It combines multiple displays into an area-weighted source, retains each display's color, emits from static navigation glass even when unoccupied, reduces spill from dim standby screens, and supports screen props missing from the legacy emitter list. Fully dark screens emit no light. Generated display content remains static; work and occupancy animations still require their existing state. Raster crop, mount lift and mirroring remain part of source placement.
 
 Projection lighting was softened in the live CRT lab, then copied back: ambient lift 0.12 to 0.10; wall material gain 0.90 to 0.86; room 0.64 to 0.60; pool 1.00 to 0.96. Lamp reach remains 1.50. CRT grain and physical wall fixtures remain active. Screen spill is scaled by visible phosphor power with a 1.35 local gain; it is not a global exposure increase.
 
-## Live verification, 2026-09-15
+## Earlier lighting implementation verification, 2026-09-15
 
 Reloaded Kepler command room and inspected at room framing and close zoom. The tabletop is foreshortened, front fascia is thin, front legs and shorter exposed rear supports are visible, and floor remains visible through the open underside. Cyan light is visible on the adjacent floor. The back-wall console and existing chairs remain in place. Live asset diagnostics: 184 views, zero failures, density 6.
 

diff --git a/docs/station-remaster/tactical-table-polish/low-table-prompt.md b/docs/station-remaster/tactical-table-polish/low-table-prompt.md
@@ -1,0 +1,9 @@
+# Short-support, steeper-camera revision
+
+The owner rejected the first legged table: too tall, too frontal, and supports too thin. This revision increases visible tabletop depth and replaces the tall legs with short, broad supports. Built-in image tool; current table and approved desk as references.
+
+Use case: precise-object-edit. Correct ONLY the tactical table in reference 1; reference 2 is the approved StarNet desk CAMERA and SUPPORT SCALE reference.
+The current table is wrong: too front-facing, long thin legs, tall counter height. Rebuild it as a LOW, squat, heavy-duty seated tactical table. Camera looks substantially more DOWNWARD, matching reference 2: orthographic south-facing, zero yaw, edges parallel to room axes, no vanishing point. Show MORE depth of the tabletop, not a narrow sliver.
+Specific proportions: overall width about 1400 units. Tabletop upper plane visible depth about 600 units (43% of width), front fascia only 45 units thick. Below the fascia, short broad industrial legs only 100 units tall (7% of width), each leg about 95 units wide. FOUR squat chunky supports with broad foot pads, the two front feet clearly visible, rear feet only where physically visible. Clear but LOW transparent gap beneath the table, not a tall empty opening. Wide stable stance. No long thin stilt legs, no glowing bars down legs, no solid cabinet pedestal.
+Retain dark gunmetal materials, restrained brass corner hardware, clipped octagonal corners, thin bezel, cyan tactical glass with sparse circular graticules and simple unlabeled marks. Preserve the crisp illustrated industrial GAME SPRITE style. No photographic microdetail. Table is drawn at only84 world pixels width, so broad shapes and substantial supports that survive downscaling. Camera angle and material read should fit the nearby approved desk, but DO NOT add a vertical monitor or keyboard.
+Entire single table on real transparent RGBA with transparent open areas underneath. No floor, no shadow painted outside its feet, no extra objects, no room, no text. Do not scale the previous picture; redraw geometry with a deeper visible top and substantially shorter wider supports.

diff --git a/docs/station-remaster/tactical-table-polish/low-table-angle-prompt.md b/docs/station-remaster/tactical-table-polish/low-table-angle-prompt.md
@@ -1,0 +1,7 @@
+# Camera-only follow-up
+
+The first short-support candidate corrected the legs but retained excessive tabletop foreshortening. It was not installed. This follow-up asks for a deeper visible top plane while preserving the broad, low supports.
+
+Use case: precise-object-edit. Correct the CAMERA angle of this low tactical table. The short chunky feet are now good: preserve their short height, broad width, materials and design. Keep slim fascia and same horizontal width. But tabletop is STILL MUCH TOO FRONT-FACING.
+Change projection to near top-down, camera 65 degrees DOWN from horizontal, zero yaw orthographic. Required visible shape: the UPPER TABLETOP PLANE from rear rim to front rim must be ONE HALF the total horizontal width. In this image width is about1800px but upper top depth only430px: increase UPPER TOP DEPTH to about900px, while keeping fascia about55px and frontfeet about170px. Thus full object bounding aspect ratio should be about1.6 WIDTH to1 HEIGHT. Render on a taller canvas so no cropping. This is a wide rectangular physical table with clipped corners, not a thin console or a vertical display. Grid on glass must follow the deeper top plane. Do not simply stretch the whole picture: keep feet short and chunky and redraw the viewpoint. Show significant tabletop depth like an orthographic game camera looking down into a room, not across it.
+Preserve sparse cyan tactical diagram, dark gunmetal and brass, illustration game sprite edges, true RGBA transparency under short legs and all around. No floor background or outside shadow. Single complete low table. This is the same low table seen from substantially ABOVE; preserve leg height/materials/style but make TOP SURFACE significantly deeper in the image.
